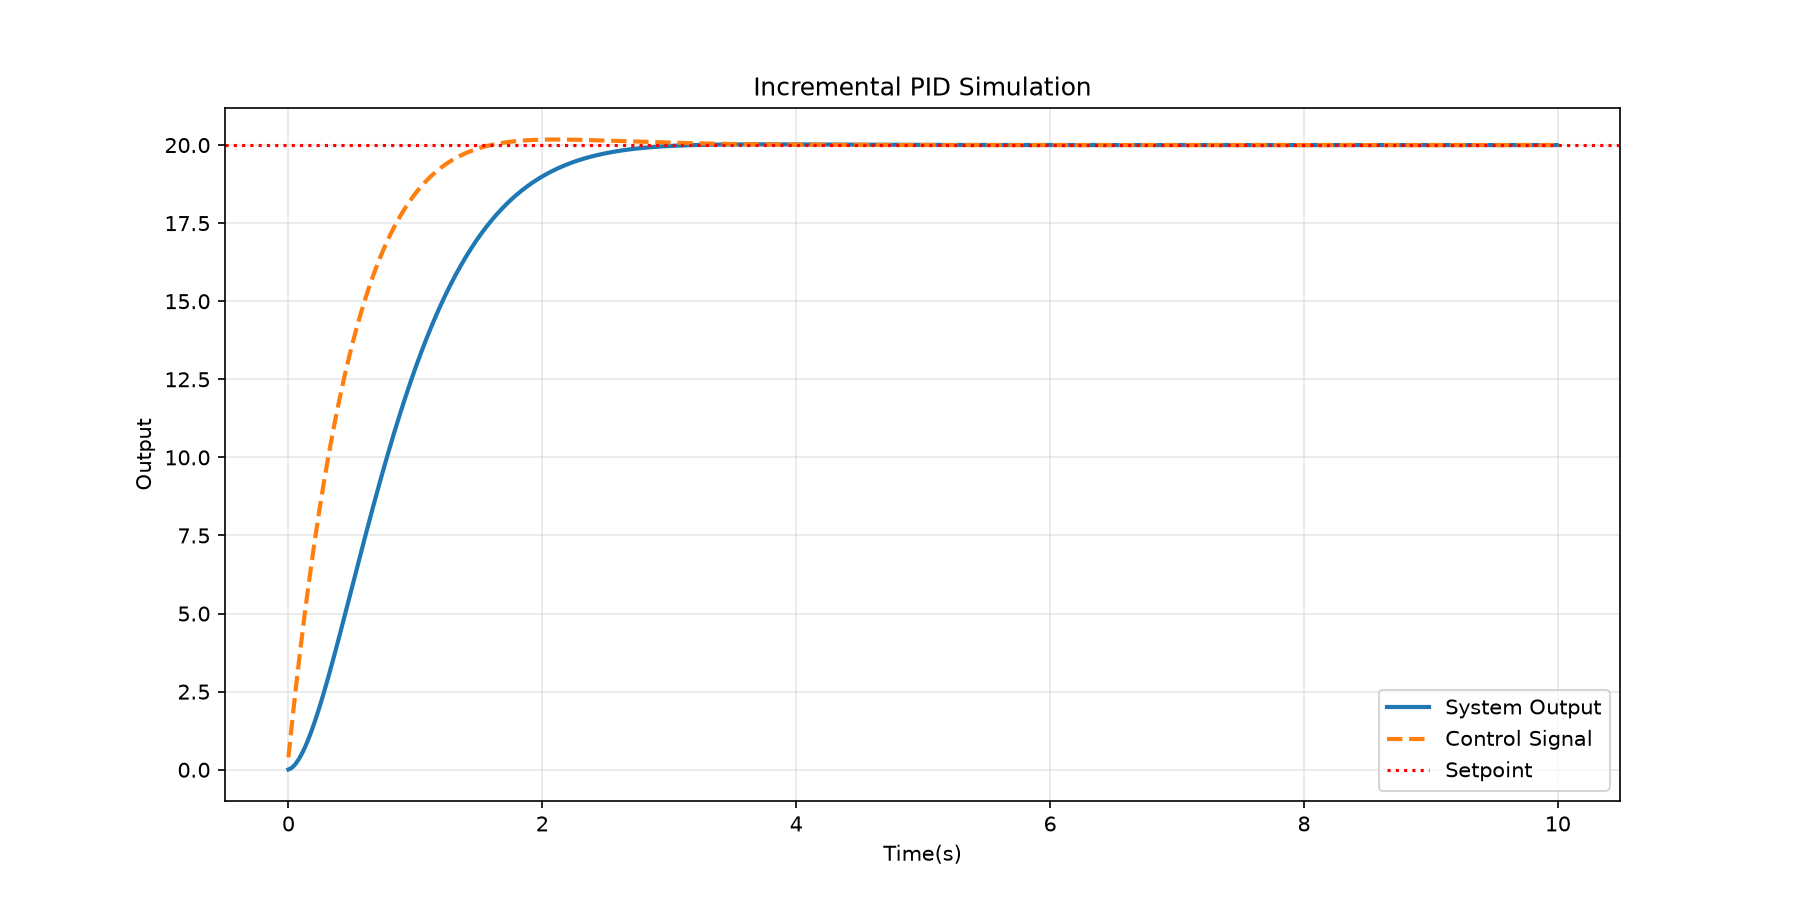
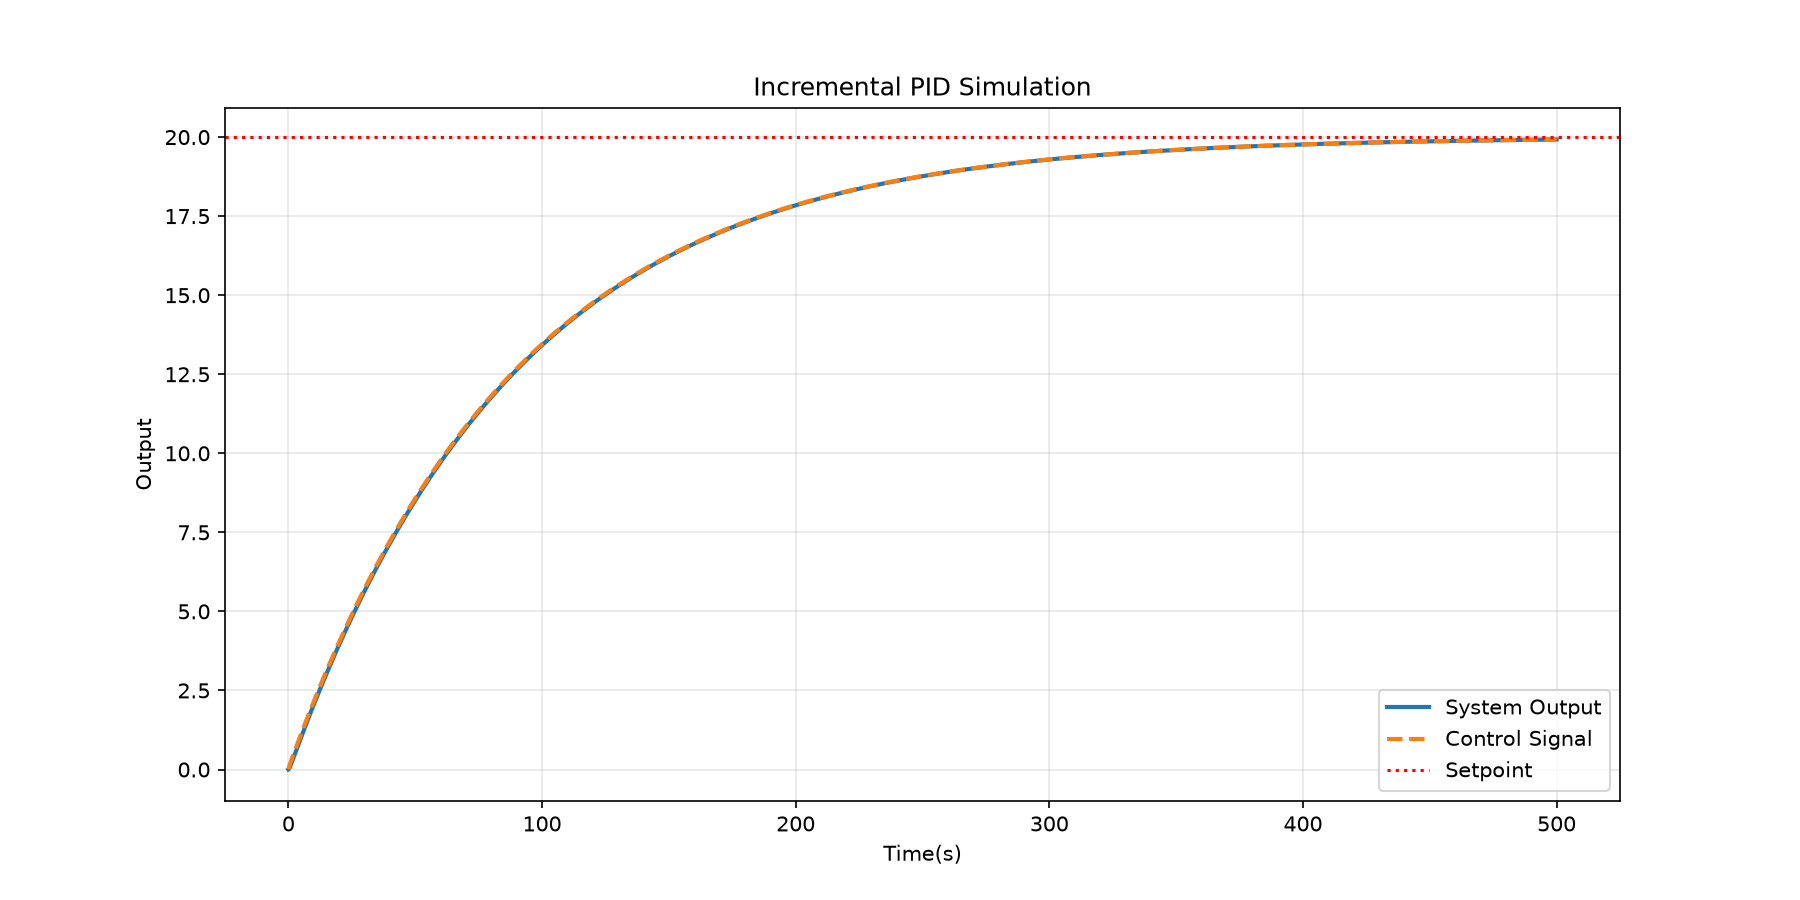
更新了增量式PID仿真并且重新生成结果

diff --git a/pid_learning/sim_incremental_pid.py b/pid_learning/sim_incremental_pid.py
@@ -34,7 +34,7 @@ class IncrementalPID:
         self.first_run=True
         print("PID内部状态已重置")
 
-    def update(self, setpoint, measurement, dt):  # 增加dt参数
+    def update(self, setpoint, measurement):
         error = setpoint - measurement
         
         if self.first_run:
@@ -47,8 +47,8 @@ class IncrementalPID:
         
         # 增量式PID计算 - 修正版
         du = (self.Kp * (error - e1)           # 比例增量
-            + self.Ki * error * dt           # 积分增量 (乘以dt)
-            + self.Kd * (error - 2*e1 + e2) / dt)  # 微分增量 (除以dt)
+            + self.Ki * error * self.dt           # 积分增量 (乘以dt)
+            + self.Kd * (error - 2*e1 + e2) / self.dt)  # 微分增量 (除以dt)
         
         raw_output = self._prev_output + du
         
@@ -85,7 +85,7 @@ if __name__=="__main__":
     )
     #系统变量
     setpoint=20.0#目标值
-    time=10#仿真时间
+    time=500#仿真时间
     plant_state=0.0#当前值
     tau=0.5#系统惯性时间常数
     #数据记录
